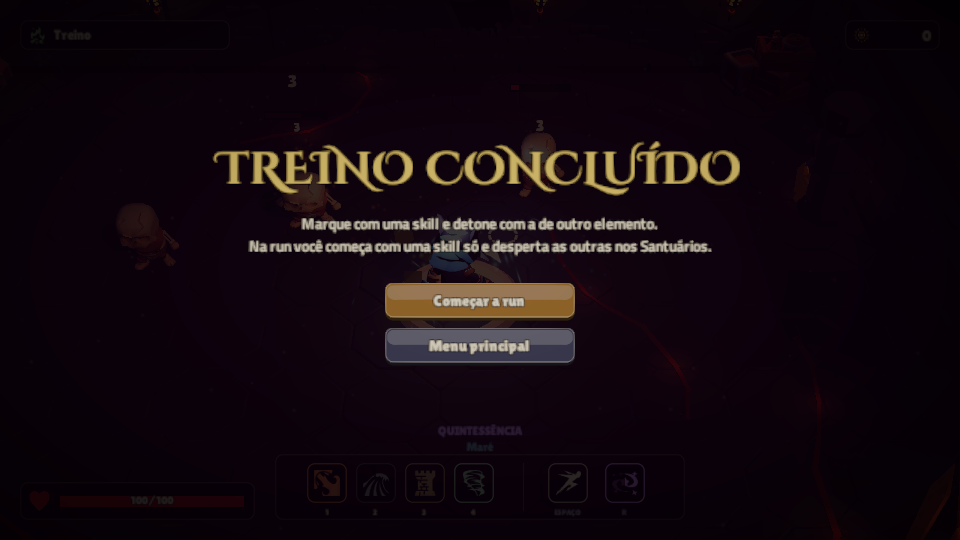
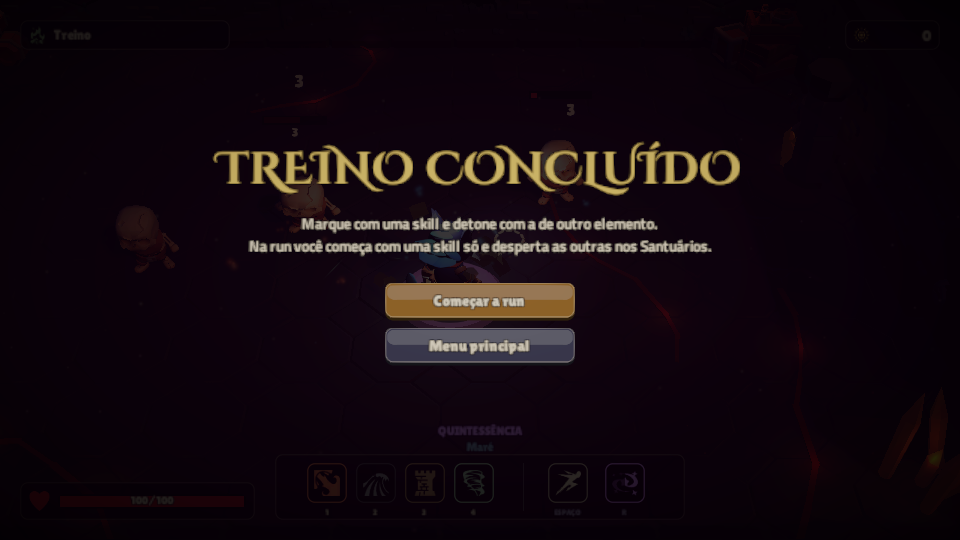
Bonecos do treino mais perto da entrada: no fundo da sala ficavam por baixo do painel do passo justo quando ele pede para bater num boneco

diff --git a/docs/progresso.html b/docs/progresso.html
@@ -42,7 +42,7 @@
       <li><b>Velas reagem à Água:</b> as velas acesas do cenário (Pacto, Provação, Mestre, Descanso) apagam com skill ou reação de Água por perto, soltam um fio de fumaça e reacendem com Fogo ou sozinhas em 8 s, como as tochas. A chama faz parte do modelo do pack, então apagar é trocar pela vela apagada do mesmo pack. Só Água apaga (Ar apagando seria uma regra nova).</li>
       <li><b>Câmera na luta do chefe:</b> enquanto o chefe vive, a câmera puxa 10% do caminho até ele (no máximo 1,2 m; o adiantamento do mouse soma por cima): a Rainha ficava no alto, metade sob a barra de vida.</li>
       <li><b>Rachaduras de lava 30% mais fracas</b> nos Salões e no Coração: eram o ponto mais saturado do quadro e puxavam o olho para fora da briga.</li>
-      <li><b>Treino com a cara da run:</b> a sala de treino não passava pelo ajuste de bioma e mostrava as rachaduras com o brilho cru (laranja quase neon), justamente a primeira tela de quem joga pela primeira vez. Agora ela fica com a luz e as cores dos Salões de Cinza.</li>
+      <li><b>Treino com a cara da run:</b> a sala de treino não passava pelo ajuste de bioma e mostrava as rachaduras com o brilho cru (laranja quase neon), justamente a primeira tela de quem joga pela primeira vez. Agora ela fica com a luz e as cores dos Salões de Cinza. Os bonecos de treino também vieram 1,7 m para perto da entrada: no fundo da sala eles ficavam por baixo do painel do passo justamente quando o passo pede "bata num boneco".</li>
       <li><b>Letreiro da Provação e do Cerco</b> fica 3,2 s em vez de 4 s (a primeira onda já chegava com ele na tela); o objetivo continua no chip da sala.</li>
     </ul>
     <p><b>Rodada 16 (quadros de uma run inteira jogada pelo bot):</b> na luta do chefe o chip do alto fica só "Sala 5/5 · Chefe" e o "ONDA 1/1" não aparece mais logo depois do letreiro do chefe (a barra dele já diz tudo). Nas outras salas o aviso de onda continua: é o único sinal perto do olho, e no Cerco e na Provação o "REFORÇOS" é o único aviso. Descartado: estandartes balançando com Ar (enfeite sem função, mesma classe dos estandartes em chamas).</p>

diff --git a/Assets/Game/Game/TutorialDirector.cs b/Assets/Game/Game/TutorialDirector.cs
@@ -25,7 +25,8 @@ namespace Quintessence.Game
             hud.SetRoom("Treino", RoomType.Rest);
             hud.SetEssence(0);
             if (dummyPrefab != null)
-                foreach (var p in new[] { new Vector3(-4f, 0, 0.5f), new Vector3(0, 0, 1.8f), new Vector3(4f, 0, 0.5f) })
+                // bonecos mais perto da entrada: no fundo da sala ficavam por baixo do painel do passo ("bata num boneco")
+                foreach (var p in new[] { new Vector3(-4f, 0, -1.2f), new Vector3(0, 0, 0f), new Vector3(4f, 0, -1.2f) })
                     Instantiate(dummyPrefab, p, Quaternion.Euler(0, 180, 0), transform);
             player.DashStarted += OnDash;
             player.SkillStarted += OnSkill;
